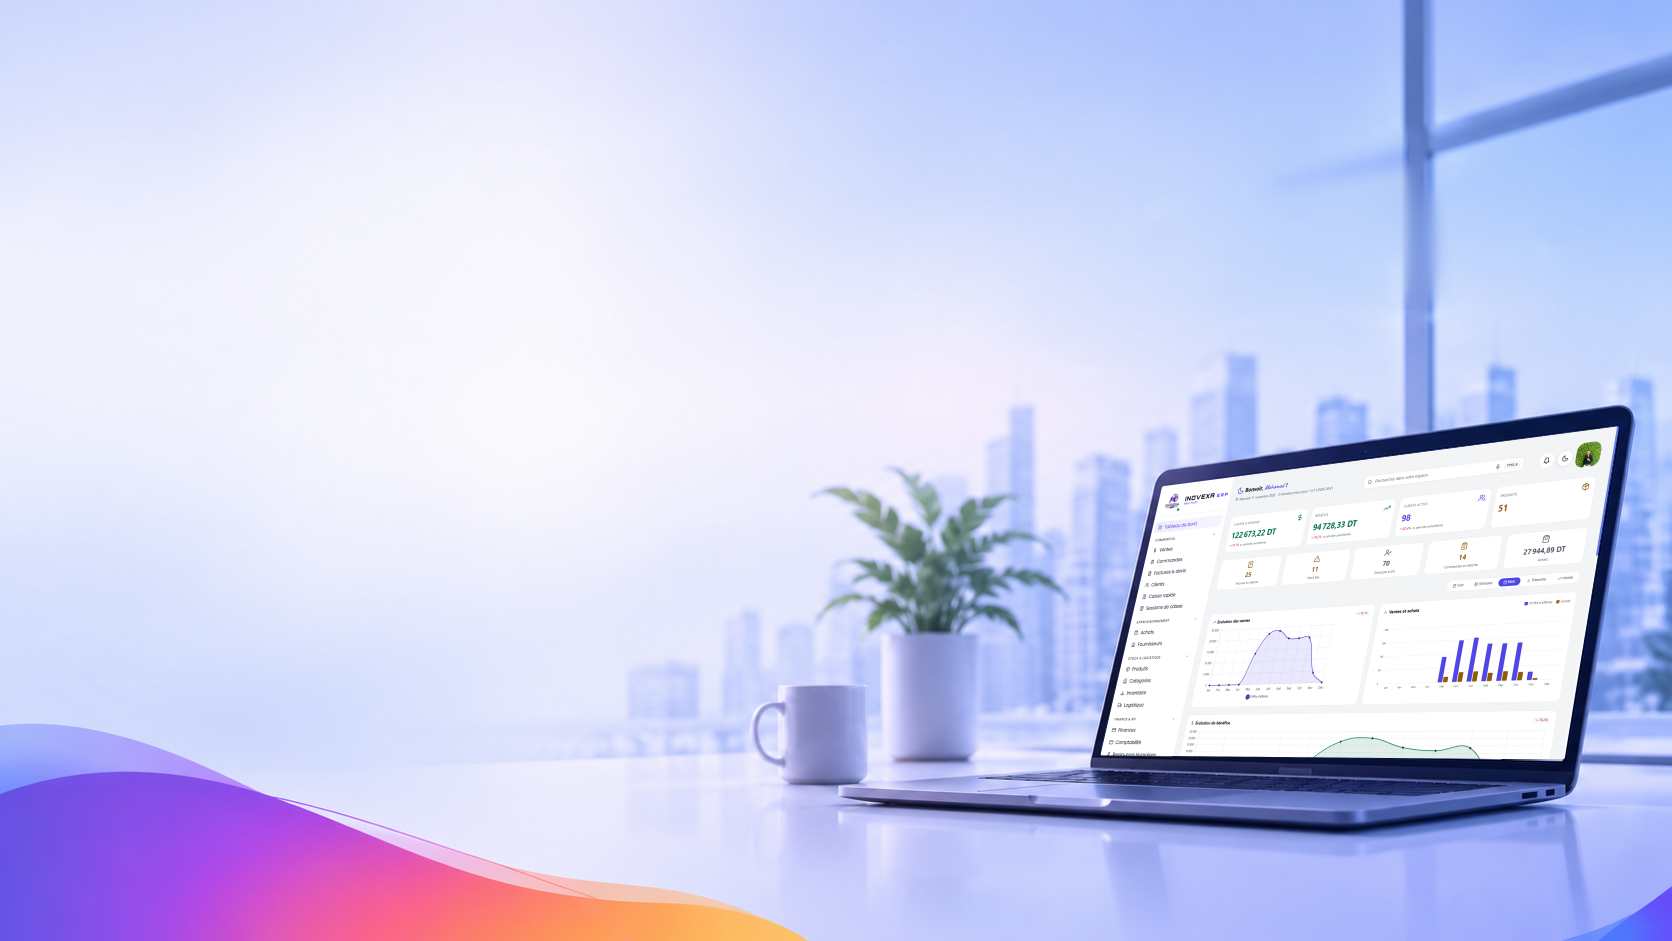
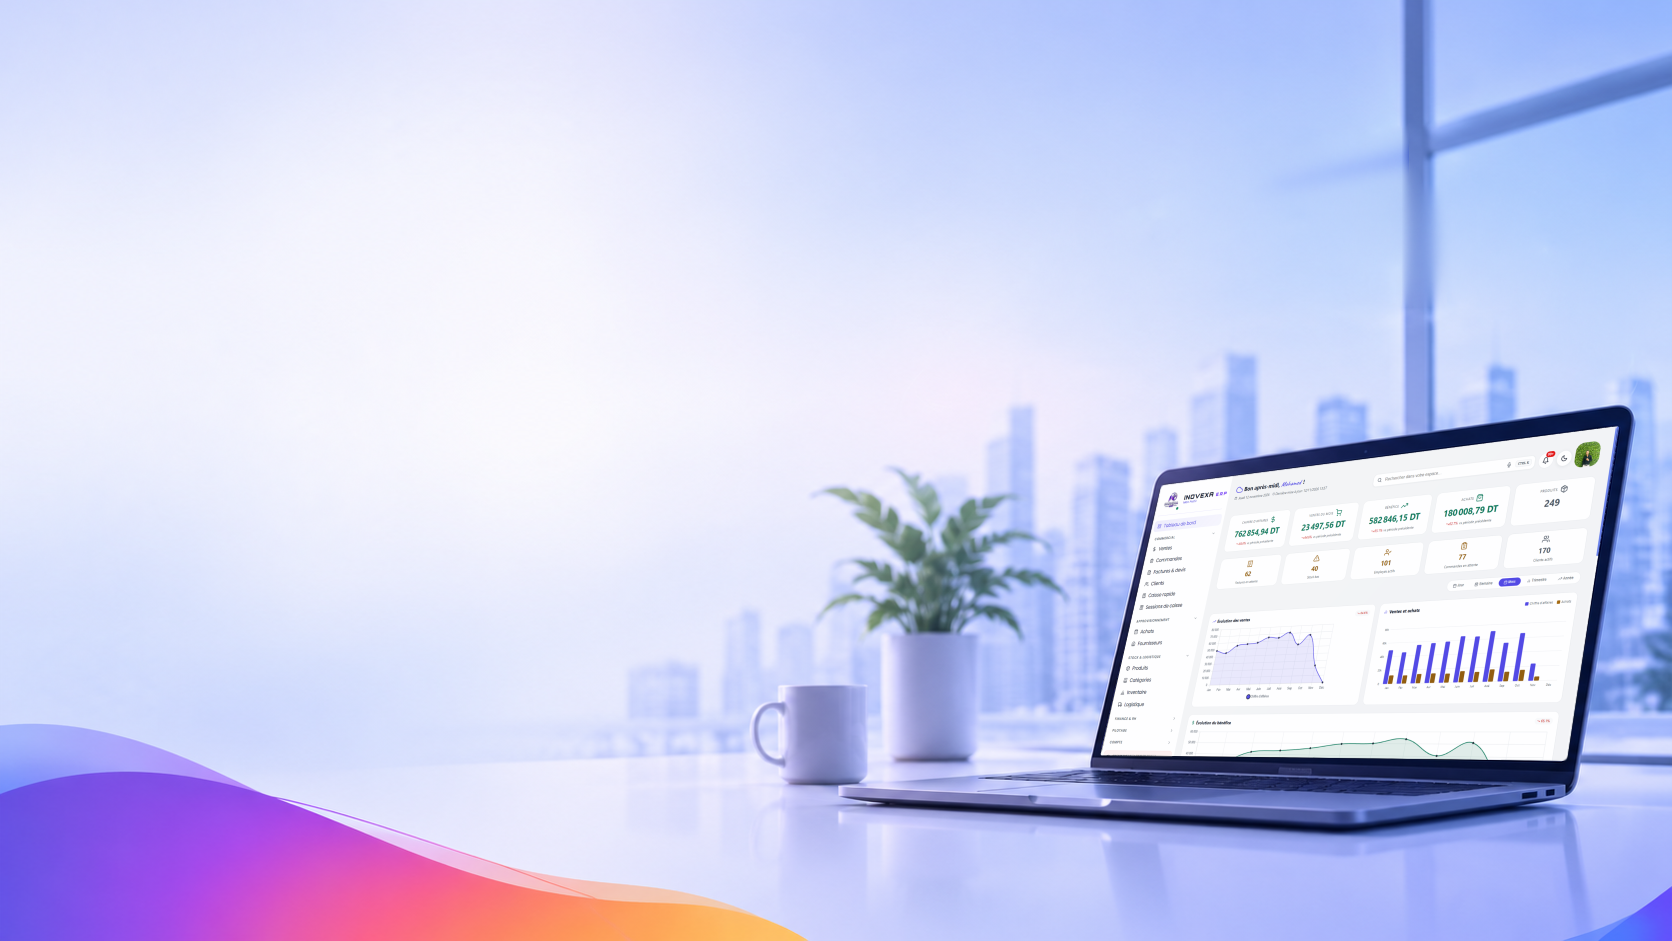
Update Inovexa ERP

diff --git a/backend/src/modules/admin/demo-product-images.ts b/backend/src/modules/admin/demo-product-images.ts
@@ -1,0 +1,38 @@
+/**
+ * Photos réelles des produits de démonstration : liens vers Unsplash (licence Unsplash, usage gratuit,
+ * y compris commercial, attribution non obligatoire — aucune photo Unsplash+ / premium).
+ * L'ordre suit la liste PRODUCTS de demo-data.ts. Le domaine images.unsplash.com est autorisé
+ * dans la politique de sécurité du frontend (frontend/proxy.ts, directive img-src).
+ *
+ * Paramètres : image recadrée en carré 400×400, compressée, format choisi par le navigateur (WebP/AVIF).
+ */
+const UNSPLASH_PARAMS = '?w=400&h=400&fit=crop&crop=entropy&q=70&auto=format';
+
+/** [identifiant de la photo, page Unsplash de la photo (source)] */
+const PHOTOS: Array<[string, string]> = [
+  ['photo-1736576660096-744a1dae8e03', 'https://unsplash.com/photos/a-laptop-computer-sitting-on-top-of-a-desk-qkKQFsgcwak'], // Ordinateur portable 15"
+  ['photo-1612103198005-b238154f4590', 'https://unsplash.com/photos/black-android-smartphone-on-brown-wooden-table-KEMb3TSbZBc'], // Smartphone 128 Go
+  ['photo-1667404202905-4335b5370d96', 'https://unsplash.com/photos/a-white-refrigerator-with-a-black-handle-k7WP9oPThOI'], // Réfrigérateur 300 L
+  ['photo-1677100091694-a09a1e468a7b', 'https://unsplash.com/photos/a-wooden-desk-topped-with-a-computer-monitor-and-keyboard-QNch8putqnU'], // Bureau ajustable
+  ['photo-1553013983-15241ab69e57', 'https://unsplash.com/photos/white-printer-papers-on-tray-skQTL_S7-NE'], // Ramette papier A4 (x5)
+  ['photo-1560824438-0a9f61ad5a48', 'https://unsplash.com/photos/ground-coffee-on-stainless-steel-cup-EgTjc4Hqbgk'], // Café moulu 1 kg
+  ['photo-1720468750651-71bf110a05e5', 'https://unsplash.com/photos/a-group-of-four-water-bottles-sitting-on-top-of-a-table-NEfnQu_yz_g'], // Eau minérale (pack 6)
+  ['photo-1519666251146-8e16c5518edd', 'https://unsplash.com/photos/a-bottle-of-soap-sitting-on-top-of-a-table-hn5yKk3gtK8'], // Gel hydroalcoolique 500 ml
+  ['photo-1565503117139-7fd9677544e9', 'https://unsplash.com/photos/mens-gray-striped-collared-shirt-FD59Y8viCyU'], // Chemise coton homme
+  ['photo-1571008887538-b36bb32f4571', 'https://unsplash.com/photos/pair-of-blue-and-white-adidas-running-shoes-XiZ7pRvCzro'], // Baskets running
+  ['photo-1763004871583-4183d64096b1', 'https://unsplash.com/photos/two-rolled-yoga-mats-stand-against-a-wall-YmaOkRjoBVc'], // Tapis de yoga
+  ['photo-1494059980473-813e73ee784b', 'https://unsplash.com/photos/stack-of-jigsaw-puzzle-pieces-3y1zF4hIPCg'], // Puzzle 1000 pièces
+  ['photo-1593307315564-c96172dc89dc', 'https://unsplash.com/photos/black-and-red-cordless-hand-drill-ILBrHd6PFJA'], // Perceuse sans fil 18V
+  ['photo-1635614986085-bf0d7a4ae4da', 'https://unsplash.com/photos/a-lawn-mower-sitting-on-top-of-a-dry-grass-field-zRCNMoW-goc'], // Tondeuse électrique
+  ['photo-1635437536607-b8572f443763', 'https://unsplash.com/photos/a-couple-of-bottles-of-motor-oil-sitting-on-the-ground-IwPT9tPchsA'], // Huile moteur 5L
+  ['photo-1615486511369-31ff08672204', 'https://unsplash.com/photos/white-and-blue-thermometer-at-36-9-WcJBDf_ATCc'], // Thermomètre infrarouge
+  ['photo-1642683496509-121deffa9cf0', 'https://unsplash.com/photos/a-small-jar-of-cream-sitting-on-top-of-a-white-table-3g7YZVUV0A0'], // Crème hydratante 50 ml
+  ['photo-1621695066793-fa220541b62a', 'https://unsplash.com/photos/white-book-on-brown-wooden-table-SBuIwMO8CKs'], // Roman policier poche
+  ['photo-1524820801657-fd59673fbb05', 'https://unsplash.com/photos/grey-desk-lamp-on-top-of-office-desk-U6EXlQCZ938'], // Lampe LED bureau
+  ['photo-1514792368985-f80e9d482a02', 'https://unsplash.com/photos/pile-of-cardboard-boxes-7eQlPra81zQ'], // Carton d'emballage (x50)
+];
+
+export const DEMO_PRODUCT_IMAGES: string[] = PHOTOS.map(([id]) => `https://images.unsplash.com/${id}${UNSPLASH_PARAMS}`);
+
+/** Page Unsplash d'origine de chaque photo (même ordre), pour citer la source si besoin. */
+export const DEMO_PRODUCT_IMAGE_SOURCES: string[] = PHOTOS.map(([, page]) => page);

diff --git a/backend/src/modules/admin/proxy.ts b/backend/src/modules/admin/proxy.ts
@@ -1,0 +1,184 @@
+import { NextRequest, NextResponse } from 'next/server';
+
+const IS_DEV = process.env.NODE_ENV === 'development';
+
+const API_URL =
+  process.env.NEXT_PUBLIC_API_URL ||
+  'https://inovexa-erp-4.onrender.com';
+
+function apiOrigins(): { origin: string; ws: string } {
+  try {
+    const u = new URL(API_URL);
+
+    let ws: string;
+
+    if (u.protocol === 'https:') {
+      ws = 'wss://' + u.host;
+    } else {
+      ws = 'ws://' + u.host;
+    }
+
+    return {
+      origin: u.protocol + '//' + u.host,
+      ws,
+    };
+  } catch {
+    return {
+      origin: 'http://localhost:3001',
+      ws: 'ws://localhost:3001',
+    };
+  }
+}
+
+// Next.js 16 : l'ancien middleware.ts s'appelle désormais proxy.ts (exécuté par Node.js).
+export function proxy(request: NextRequest) {
+  const nonce = Buffer.from(
+    crypto.randomUUID()
+  ).toString('base64');
+
+  const {
+    origin: API_ORIGIN,
+    ws: API_WS,
+  } = apiOrigins();
+
+  const ALLOW_EVAL =
+    process.env.CSP_ALLOW_EVAL === '1';
+
+  let scriptSrc: string[];
+
+  if (IS_DEV) {
+    scriptSrc = [
+      "'self'",
+      "'unsafe-inline'",
+      "'unsafe-eval'",
+    ];
+  } else {
+    scriptSrc = [
+      "'self'",
+      "'nonce-" + nonce + "'",
+      "'strict-dynamic'",
+    ];
+
+    if (ALLOW_EVAL) {
+      scriptSrc.push("'unsafe-eval'");
+    }
+  }
+
+  const directives: Record<string, string[]> = {
+    'default-src': ["'self'"],
+
+    'script-src': scriptSrc,
+
+    'style-src': [
+      "'self'",
+      "'unsafe-inline'",
+    ],
+
+    'img-src': [
+      "'self'",
+      'data:',
+      'blob:',
+      'https://flagcdn.com',
+      // Photos des produits de démonstration (liens Unsplash, voir backend/src/modules/admin/demo-product-images.ts)
+      'https://images.unsplash.com',
+      API_ORIGIN,
+    ],
+
+    'font-src': [
+      "'self'",
+      'data:',
+    ],
+
+    'connect-src': [
+      "'self'",
+      'data:',
+      'blob:',
+      API_ORIGIN,
+      API_WS,
+    ],
+
+    'media-src': ["'self'"],
+
+    'object-src': ["'none'"],
+
+    'frame-src': ["'self'"],
+
+    'frame-ancestors': ["'self'"],
+
+    'worker-src': [
+      "'self'",
+      'blob:',
+    ],
+
+    'base-uri': ["'self'"],
+
+    'form-action': ["'self'"],
+
+    // Relevé des violations (fichier + ligne responsables) : voir app/api/csp-report/route.ts
+    'report-uri': ['/api/csp-report'],
+  };
+
+  if (IS_DEV) {
+    directives['connect-src'].push('ws:');
+  } else {
+    directives['upgrade-insecure-requests'] = [];
+  }
+
+  const csp = Object.entries(directives)
+    .map(([key, values]) => {
+      if (values.length > 0) {
+        return key + ' ' + values.join(' ');
+      }
+
+      return key;
+    })
+    .join('; ');
+
+  const requestHeaders = new Headers(
+    request.headers
+  );
+
+  requestHeaders.set(
+    'x-nonce',
+    nonce
+  );
+
+  requestHeaders.set(
+    'Content-Security-Policy',
+    csp
+  );
+
+  const response = NextResponse.next({
+    request: {
+      headers: requestHeaders,
+    },
+  });
+
+  response.headers.set(
+    'Content-Security-Policy',
+    csp
+  );
+
+  return response;
+}
+
+export const config = {
+  matcher: [
+    {
+      source:
+        '/((?!api|_next/static|_next/image|favicon.ico|.*\\.(?:png|jpg|jpeg|gif|svg|webp|ico|txt|xml)$).*)',
+
+      missing: [
+        {
+          type: 'header',
+          key: 'next-router-prefetch',
+        },
+        {
+          type: 'header',
+          key: 'purpose',
+          value: 'prefetch',
+        },
+      ],
+    },
+  ],
+};

diff --git a/backend/src/modules/admin/demo-data.ts b/backend/src/modules/admin/demo-data.ts
@@ -15,6 +15,7 @@ import { BankAccount } from '../finance/entities/bank-account.entity';
 import { Shipment } from '../logistics/entities/shipment.entity';
 import { Objective } from '../objectives/entities/objective.entity';
 import { periodBounds } from '../objectives/objectives.service';
+import { DEMO_PRODUCT_IMAGES } from './demo-product-images';
 
 export type DemoModuleKey =
   | 'categories' | 'products' | 'clients' | 'suppliers' | 'finance_flow' | 'orders' | 'invoices'
@@ -101,6 +102,7 @@ const CATEGORIES = [
 ];
 
 // [nom, prix, stock]  (quelques stocks bas pour alimenter les alertes)
+// Chaque produit a une vraie photo (lien Unsplash) : DEMO_PRODUCT_IMAGES suit le même ordre que cette liste.
 const PRODUCTS: [string, number, number][] = [
   ['Ordinateur portable 15"', 1450, 12], ['Smartphone 128 Go', 890, 25], ['Réfrigérateur 300 L', 1190, 6],
   ['Bureau ajustable', 420, 9], ['Ramette papier A4 (x5)', 24.9, 140], ['Café moulu 1 kg', 18.5, 80],
@@ -253,6 +255,7 @@ export async function seedDemoData(manager: EntityManager, userId: number, optio
         sku: `SKU-${pad(i + 1, 4)}`,
         price,
         quantity,
+        imageUrl: DEMO_PRODUCT_IMAGES[i % DEMO_PRODUCT_IMAGES.length],
         createdAt: dateAt(i, nProducts),
       });
     }),
